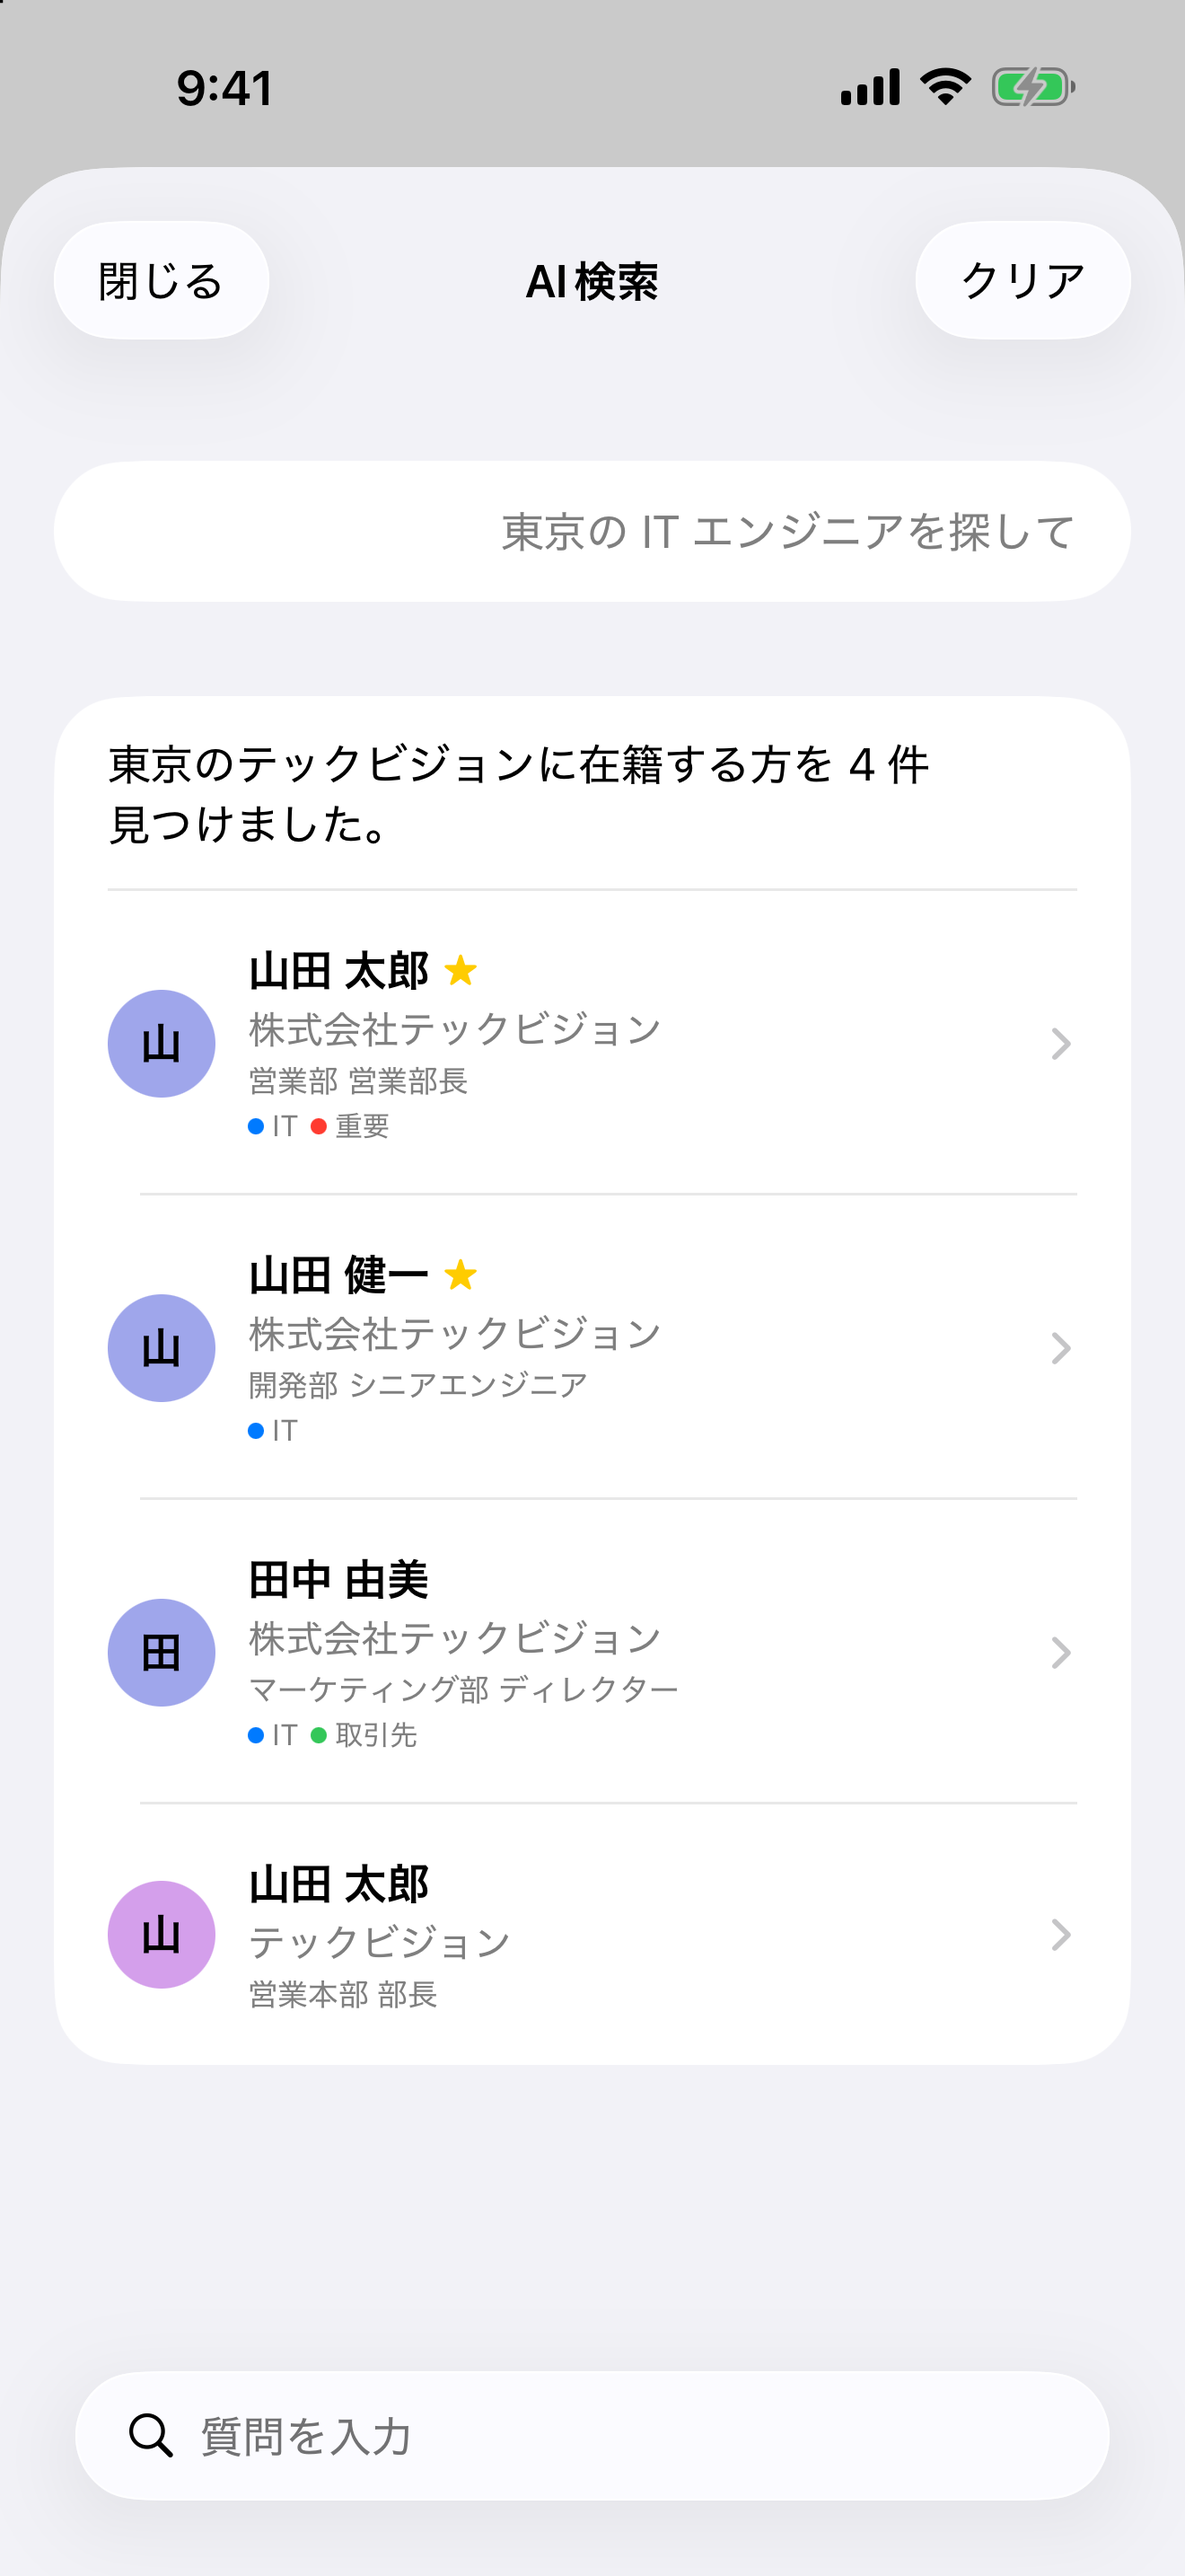
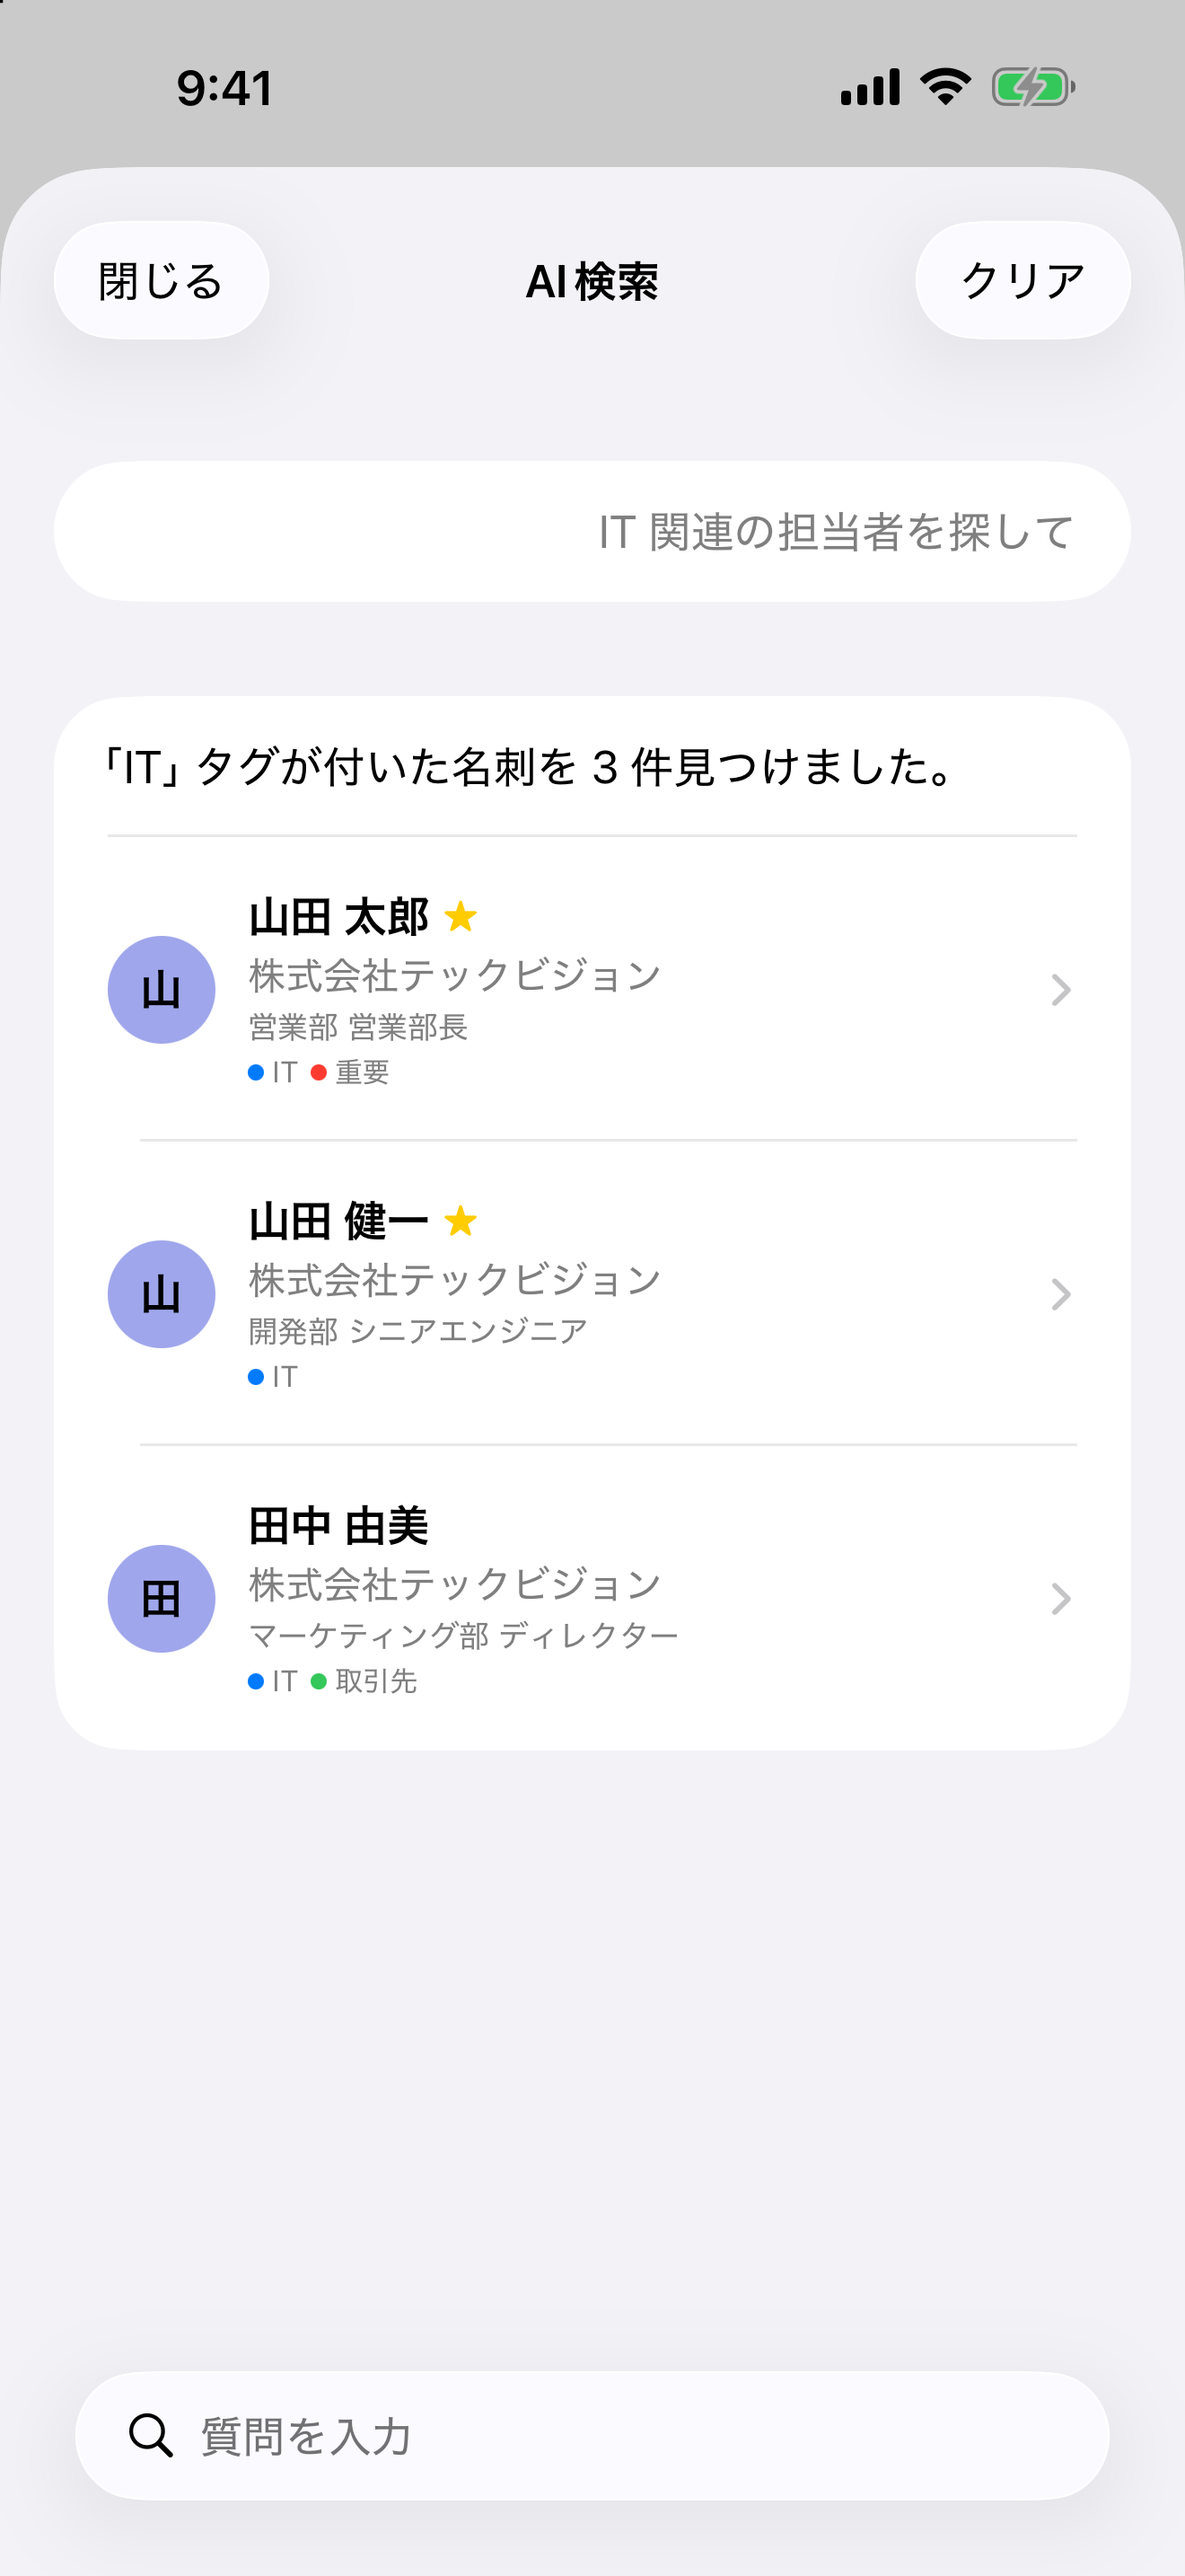
fix(screenshots): AIチャットスクショの重複排除と設定画面スクショ削除
- AI検索モック結果を「IT」タグフィルタに変更し、
  サンプルデータの山田太郎（重複検出デモ用カード）が
  検索結果に混ざって同姓同名2件になる問題を解消
- 設定画面スクショ (07_settings) を削除して6枚構成に変更
  (デバッグ用 UIFileSharingEnabled 等をストアで露出させない)
- ScreenshotRunner の test07_Settings と CardListView の
  START_SCREEN=Settings 分岐を削除
- .asc/shots.settings.json の version_localization_id を
  v1.0.3 のものに更新

diff --git a/eMeishi/Utilities/ScreenshotMockSupport.swift b/eMeishi/Utilities/ScreenshotMockSupport.swift
@@ -126,24 +126,24 @@ enum ScreenshotMockSupport {
 
     // MARK: - モックチャット（AISearchChatView 用）
 
-    /// 「東京の IT エンジニアを探して」 → アシスタント応答 のサンプル会話
-    /// 一致カードはサンプルデータから IT 系 2 件を選ぶ
+    /// 「IT 関連の担当者を探して」 → アシスタント応答 のサンプル会話
+    /// 「IT」タグが付いたカードのみを対象にすることで、
+    /// 重複検出デモ用カード（タグ無し）が結果に混ざらないようにする
     static func mockChatMessages(cards: [BusinessCard]) -> [AISearchService.ChatMessage] {
-        let matchedIDs: [UUID] = cards
-            .filter { card in
-                let company = card.company ?? ""
-                return company.contains("テックビジョン")
-            }
-            .compactMap { $0.id }
+        let matched: [BusinessCard] = cards.filter { card in
+            let tags = (card.tags as? Set<Tag>) ?? []
+            return tags.contains(where: { $0.name == "IT" })
+        }
+        let matchedIDs: [UUID] = matched.compactMap { $0.id }
 
         let user = AISearchService.ChatMessage(
             role: .user,
-            text: "東京の IT エンジニアを探して",
+            text: "IT 関連の担当者を探して",
             matchedCardIDs: []
         )
         let assistant = AISearchService.ChatMessage(
             role: .assistant,
-            text: "東京のテックビジョンに在籍する方を \(matchedIDs.count) 件見つけました。",
+            text: "「IT」タグが付いた名刺を \(matchedIDs.count) 件見つけました。",
             matchedCardIDs: matchedIDs
         )
         return [user, assistant]

diff --git a/eMeishiUITests/ScreenshotRunner.swift b/eMeishiUITests/ScreenshotRunner.swift
@@ -2,7 +2,7 @@ import XCTest
 
 // MARK: - App Store スクリーンショット撮影ランナー
 //
-// 7 枚のスクリーンショットを 1 デバイス × 1 回のテスト実行で取得する。
+// 6 枚のスクリーンショットを 1 デバイス × 1 回のテスト実行で取得する。
 // 各テストメソッドはアプリを `-UITestMode` + `START_SCREEN=<name>` で起動し、
 // 該当画面が描画されるのを待ってから XCTAttachment として screenshot を保存する。
 //
@@ -16,7 +16,7 @@ import XCTest
 // 取得した PNG は `scripts/capture-shots.sh` が xcresulttool で抽出する。
 //
 // 命名規則: 01_form_ocr / 02_card_list / 03_ai_chat / 04_insights /
-//          05_duplicate / 06_tags / 07_settings
+//          05_duplicate / 06_tags
 final class ScreenshotRunnerTests: XCTestCase {
 
     private var app: XCUIApplication!
@@ -110,14 +110,5 @@ final class ScreenshotRunnerTests: XCTestCase {
         XCTAssertTrue(tagsTitle.waitForExistence(timeout: 8))
         waitForUI(1.0)
         saveScreenshot(named: "06_tags")
-    }
-
-    @MainActor
-    func test07_Settings() throws {
-        launchApp(startScreen: "Settings")
-        let settingsTitle = app.navigationBars["設定"]
-        XCTAssertTrue(settingsTitle.waitForExistence(timeout: 8))
-        waitForUI(1.0)
-        saveScreenshot(named: "07_settings")
     }
 }

diff --git a/eMeishi/Views/CardListView.swift b/eMeishi/Views/CardListView.swift
@@ -190,7 +190,6 @@ struct CardListView: View {
         guard ScreenshotMode.isActive, let screen = ScreenshotMode.startScreen else { return }
         switch screen {
         case "Tags":     isShowingTagManager = true
-        case "Settings": isShowingSettings = true
         case "AIChat":   isShowingAIChat = true
         case "FormOCR":  isShowingMockOCRForm = true
         default: break
